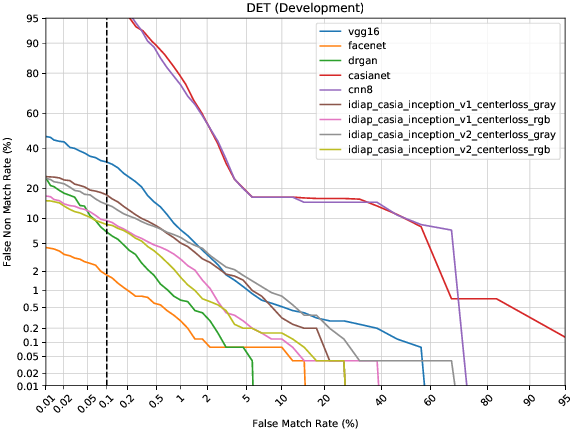
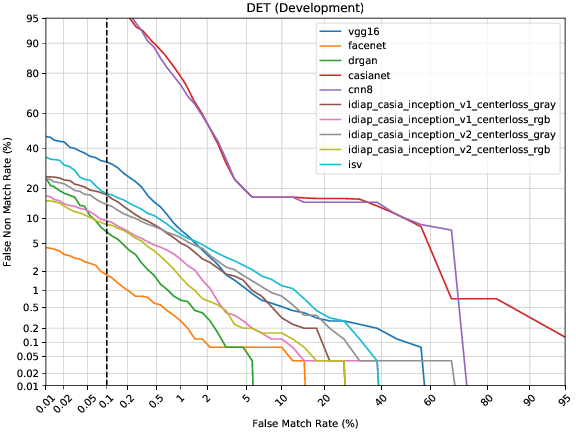
Updated docs

diff --git a/bob/bio/face_ongoing/configs/__init__.py b/bob/bio/face_ongoing/configs/__init__.py
@@ -1,0 +1,4 @@
+# see https://docs.python.org/3/library/pkgutil.html
+from pkgutil import extend_path
+__path__ = extend_path(__path__, __name__)
+

diff --git a/bob/bio/face_ongoing/configs/database/__init__.py b/bob/bio/face_ongoing/configs/database/__init__.py
@@ -1,0 +1,4 @@
+# see https://docs.python.org/3/library/pkgutil.html
+from pkgutil import extend_path
+__path__ = extend_path(__path__, __name__)
+

diff --git a/doc/leaderboard.rst b/doc/leaderboard.rst
@@ -35,11 +35,23 @@ Testing only the **mobio-male** protocol.
  +-------------------------------+-------------+-------------+
  | **Resnetv1 center loss RGB**  | 1.7%        | 0.9%        |
  +-------------------------------+-------------+-------------+
+ | **ISV**                       | 3.2%        | 7.5%        |
+ +-------------------------------+-------------+-------------+
 
 
-To run all these baselines do:
+To run each one of these baselines do:
 
+.. code-block:: sh
 
+    $ bob bio baseline vgg16 mobio-male -T <TEMP-DIR> -R <RESULT-DIR>
+    $ bob bio baseline facenet mobio-male -T <TEMP-DIR> -R <RESULT-DIR>
+    $ bob bio baseline casianet mobio-male -T <TEMP-DIR> -R <RESULT-DIR>
+    $ bob bio baseline cnn8 mobio-male -T <TEMP-DIR> -R <RESULT-DIR>
+    $ bob bio baseline idiap_casia_inception_v1_centerloss_gray mobio-male -T <TEMP-DIR> -R <RESULT-DIR>
+    $ bob bio baseline idiap_casia_inception_v1_centerloss_rgb mobio-male -T <TEMP-DIR> -R <RESULT-DIR>
+    $ bob bio baseline idiap_casia_inception_v2_centerloss_gray mobio-male -T <TEMP-DIR> -R <RESULT-DIR>
+    $ bob bio baseline idiap_casia_inception_v2_centerloss_rgb mobio-male -T <TEMP-DIR> -R <RESULT-DIR>
+    $ bob bio baseline isv mobio-male -T <TEMP-DIR> -R <RESULT-DIR>
 
 
 Follow below the DET curves for the development and dev sets
